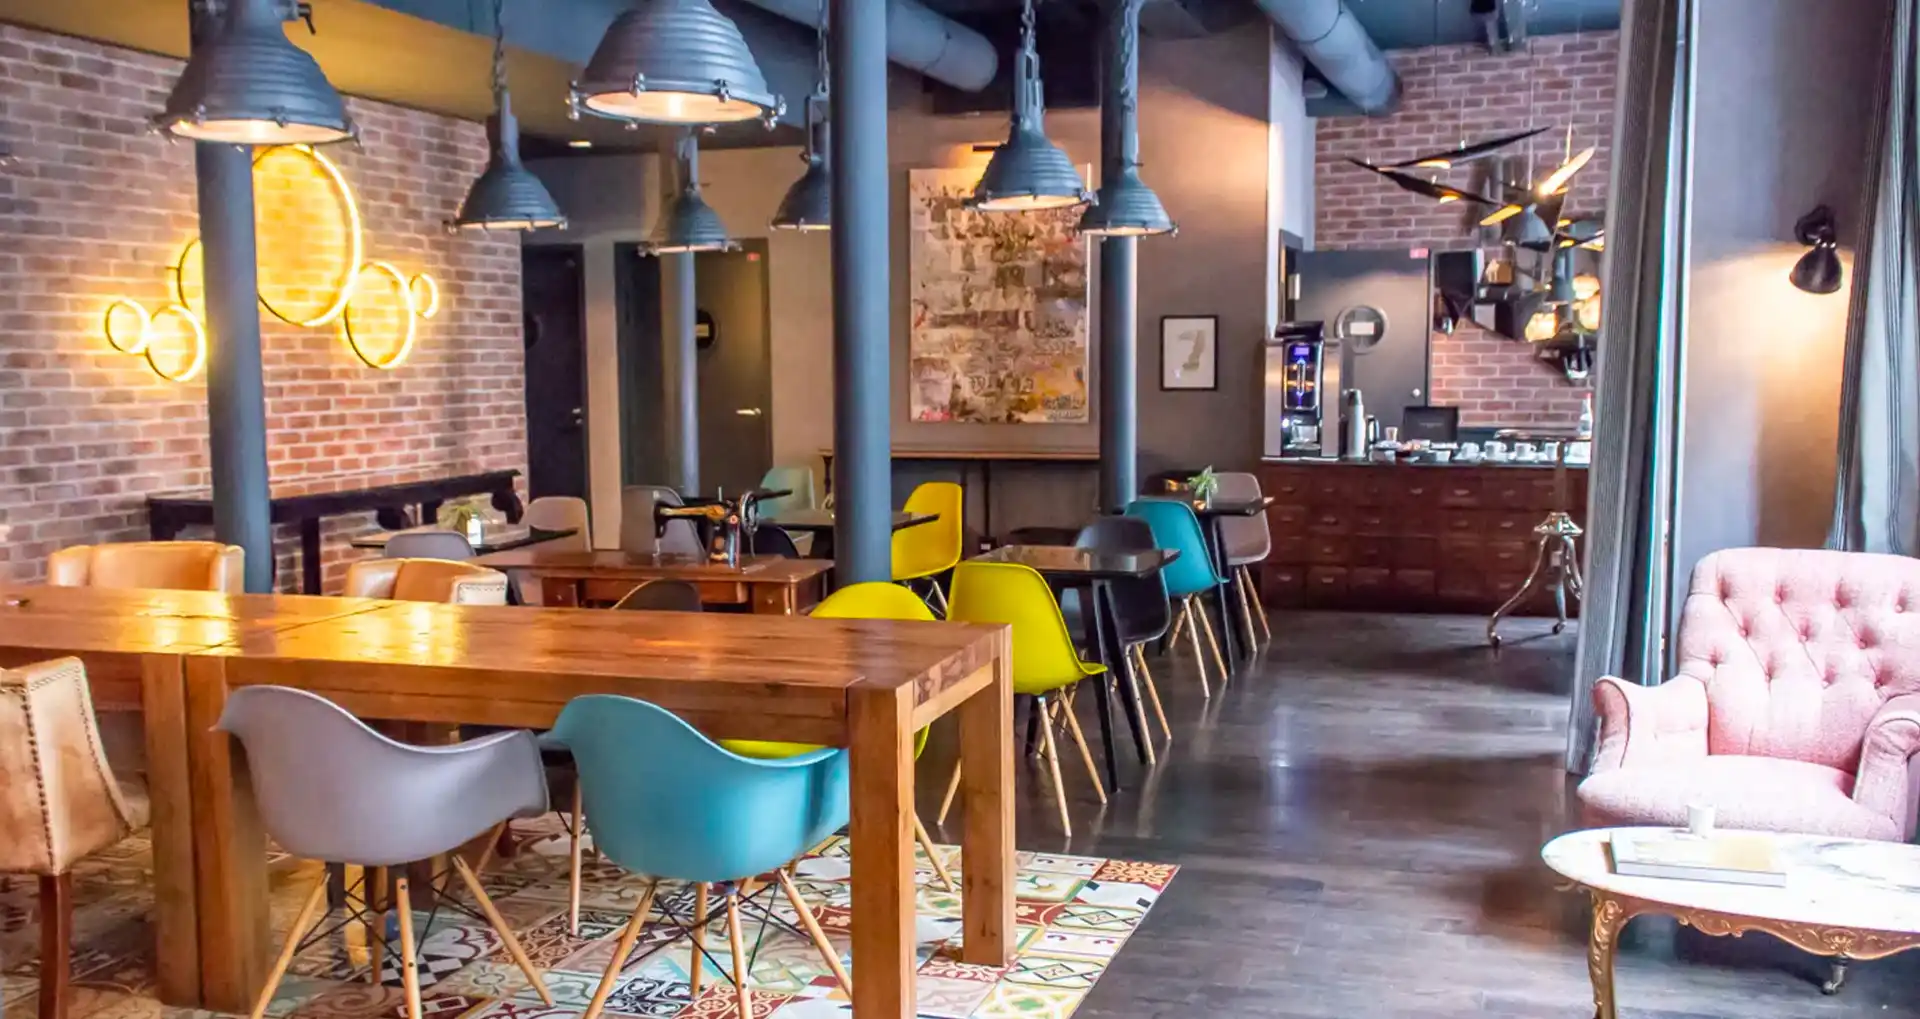
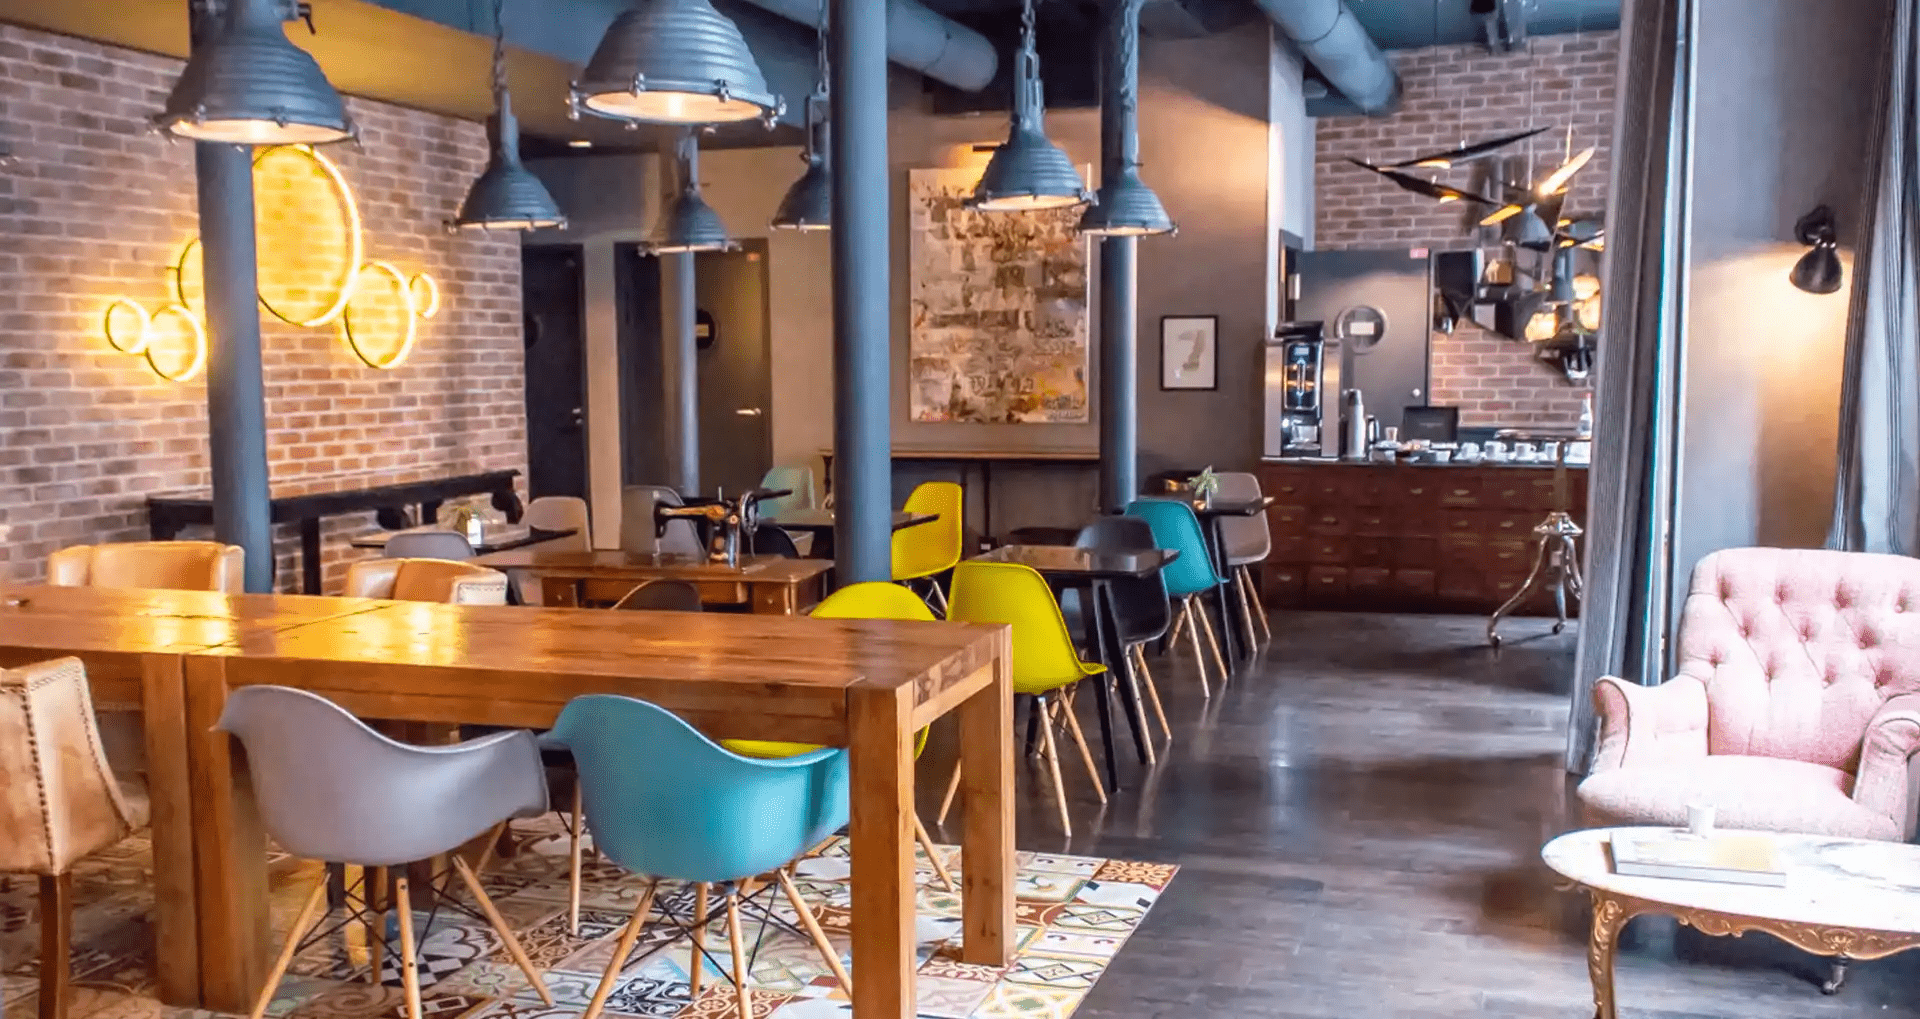
compression des photos

diff --git a/lib/functions.dart b/lib/functions.dart
@@ -42,6 +42,7 @@ class MainArticle extends StatelessWidget {
   final String? contactOrNot;
   final String? linkOrNot;
   final String? linkRetroVibes;
+  final String? linkGhibli;
 
   MainArticle(
       {required this.imagePath,
@@ -56,7 +57,8 @@ class MainArticle extends StatelessWidget {
       this.nextCompleteArticle,
       this.contactOrNot,
       this.linkOrNot,
-      this.linkRetroVibes});
+      this.linkRetroVibes,
+      this.linkGhibli});
 
   // Define the function to calculate the days until the birthday
   String daysUntilArticle() {
@@ -85,6 +87,7 @@ class MainArticle extends StatelessWidget {
             contactOrNot: contactOrNot,
             linkOrNot: linkOrNot,
             linkRetroVibes: linkRetroVibes,
+            linkGhibli: linkGhibli,
           ),
         ),
       ),
@@ -148,6 +151,7 @@ class FullArticle extends MainArticle {
     String? contactOrNot,
     String? linkOrNot,
     String? linkRetroVibes,
+    String? linkGhibli,
   }) : super(
           imagePath: imagePath,
           title: title,
@@ -162,6 +166,7 @@ class FullArticle extends MainArticle {
           contactOrNot: contactOrNot,
           linkOrNot: linkOrNot,
           linkRetroVibes: linkRetroVibes,
+          linkGhibli: linkGhibli,
         );
 
   @override
@@ -173,7 +178,21 @@ class FullArticle extends MainArticle {
     var size = MediaQuery.of(context).size;
 
     return Scaffold(
-      appBar: MyAppBar(),
+      appBar: AppBar(
+        automaticallyImplyLeading: false,
+        backgroundColor: Colors.white,
+        title: Row(
+          mainAxisAlignment: MainAxisAlignment.center,
+          children: <Widget>[
+            Container(
+              child: Image.asset(
+                'img/j&a.png',
+                width: 50,
+              ),
+            ),
+          ],
+        ),
+      ),
       body: SingleChildScrollView(
         child: Column(
           children: [
@@ -390,6 +409,78 @@ class FullArticle extends MainArticle {
                       ],
                     );
             }(),
+                () {
+              return (linkRetroVibes?.isEmpty ?? true)
+                  ? Container()
+                  : InkWell(
+                    onTap: () {
+                      _launchURL(
+                          'http://retrovibes.herokuapp.com/home/');
+                    },
+                    child: Align(
+                      alignment: Alignment.topRight,
+                      child: Container(
+                        margin: EdgeInsets.only(right: 20.0),
+                        child: Text(
+                          'Visitez le site en cliquant ici',
+                          style: TextStyle(
+                            color: Colors.blue,
+                            decoration: TextDecoration.underline,
+                          ),
+                        ),
+                      ),
+                    )
+                  );
+            }(),
+                () {
+              return (linkOrNot?.isEmpty ?? true)
+                  ? Container()
+                  : Column(
+                children: [
+                  const Text(
+                    "Visitez le site d'Ada Tech School :",
+                    style: TextStyle(
+                        fontWeight: FontWeight.bold, fontSize: 18),
+                  ),
+                  const Padding(
+                    padding: EdgeInsets.only(bottom: 12),
+                  ),
+                  InkWell(
+                    onTap: () {
+                      _launchURL(
+                          'https://adatechschool.fr/');
+                    },
+                    child: Image.asset(
+                      'img/logos/logo_ada.png',
+                      width: 150,
+                    ),
+                  ),
+                ],
+              );
+            }(),
+                () {
+              return (linkGhibli?.isEmpty ?? true)
+                  ? Container()
+                  : InkWell(
+                  onTap: () {
+                    _launchURL(
+                        'http://johananquetil.fr/Ghibliproject/');
+                  },
+                  child: Align(
+                    alignment: Alignment.topRight,
+                    child: Container(
+                      margin: EdgeInsets.only(right: 20.0),
+                      child: Text(
+                        'Visitez le site en cliquant ici',
+                        style: TextStyle(
+                          color: Colors.blue,
+                          decoration: TextDecoration.underline,
+                        ),
+                      ),
+                    ),
+                  )
+              );
+            }(),
             const SizedBox(height: 20),
           ],
         ),
@@ -417,6 +508,7 @@ class SecondaryArticle extends StatelessWidget {
   String legendPicture;
   String completeArticle;
   String? nextCompleteArticle;
+  String? linkGhibli;
 
   SecondaryArticle(
       {required this.imagePath,
@@ -428,7 +520,8 @@ class SecondaryArticle extends StatelessWidget {
       required this.publishDateParam,
       required this.legendPicture,
       required this.completeArticle,
-      this.nextCompleteArticle});
+      this.nextCompleteArticle,
+      this.linkGhibli});
 
   @override
   Widget build(BuildContext context) {
@@ -450,6 +543,7 @@ class SecondaryArticle extends StatelessWidget {
                 writtenBy: writtenBy,
                 legendPicture: legendPicture,
                 completeArticle: completeArticle,
+                linkGhibli:linkGhibli,
               ),
             )),
             child: Padding(

diff --git a/lib/views/projects.dart b/lib/views/projects.dart
@@ -23,6 +23,7 @@ class Projects extends StatelessWidget {
             legendPicture: "Validation du panier",
             completeArticle:
                 "Voici le pitch qui fixe le cadre de ce projet sur lequel notre groupe s'est accordé : Lauréline Fleury a lancé son entreprise “Anciens meubles pour une nouvelle vie”, de vente de meubles de seconde main. Pour gagner en visibilité, elle a besoin d’avoir un site internet pour afficher ses produits. En plus, cela lui permettra de gérer son stock. Son besoin est donc le suivant : J’ai besoin d’avoir une page principale qui regroupera les meubles en vente en ce moment. Pour l’affichage de chaque meuble, je souhaite un encart dans lequel on pourra retrouver une photo, le type de meuble, le prix et un bouton pour l’acheter. Chaque encart sera cliquable pour permettre d’accéder au détail du produit. Sur cette nouvelle page, on retrouvera une série de photos du meuble et toutes les informations nécessaires, c’est-à-dire, le type, le prix, les dimensions, les couleurs, les matières et bien sûr un bouton pour acheter. Pour ce qui est de l’administration, je souhaite une page de connexion. Lorsque je suis connectée je dois pouvoir accéder à une page de gestion des produits. Sur celle-ci je veux pouvoir avoir la liste de mes meubles. Je souhaite pouvoir modifier les informations de mes produits en ayant un bouton depuis ma liste. Je dois pouvoir également les supprimer s’ils ont été vendus en magasin.",
+              linkRetroVibes:"retrovibes.herokuapp.com/home",
           ),
           MainArticle(
             imagePath: "img/Projets/Pico8_2.png",
@@ -135,6 +136,7 @@ class Projects extends StatelessWidget {
             legendPicture: "Une page du site sur",
             completeArticle:
             "Ce projet a été réalisé avec deux camarades de l'école 'Ada Tech School' dans le cadre des projets collectifs. Ce fut le deuxième projet, lors de notre deuxième mois de formation. Nous avons proposé aux fans du studio Ghibli d'avoir accès à la filmographie et à différents détails et informations. L'objectif pédagogique était de nous familiariser avec les API.\n\nCe projet nous a permis de développer notre connaissance de JavaScript, de découvrir AnimeJS, d'appeler une librairie, de créer du CSS et HTML. Très peu de données sont écrites en dur dans le code, la plupart des éléments proviennent de l'API.",
+              linkGhibli: "test",
           ),
         ],
       ),

diff --git a/lib/Controllers/app_bar.dart b/lib/Controllers/app_bar.dart
@@ -4,8 +4,8 @@ import 'package:google_fonts/google_fonts.dart';
 
 const titleColor = Color(0XFFE60004);
 
-class MyAppBar extends AppBar {
-  MyAppBar({Key? key}) : super(key: key);
+class MyAppBar2 extends AppBar {
+  MyAppBar2({Key? key}) : super(key: key);
 
   Widget build(BuildContext context) {
     return AppBar(
